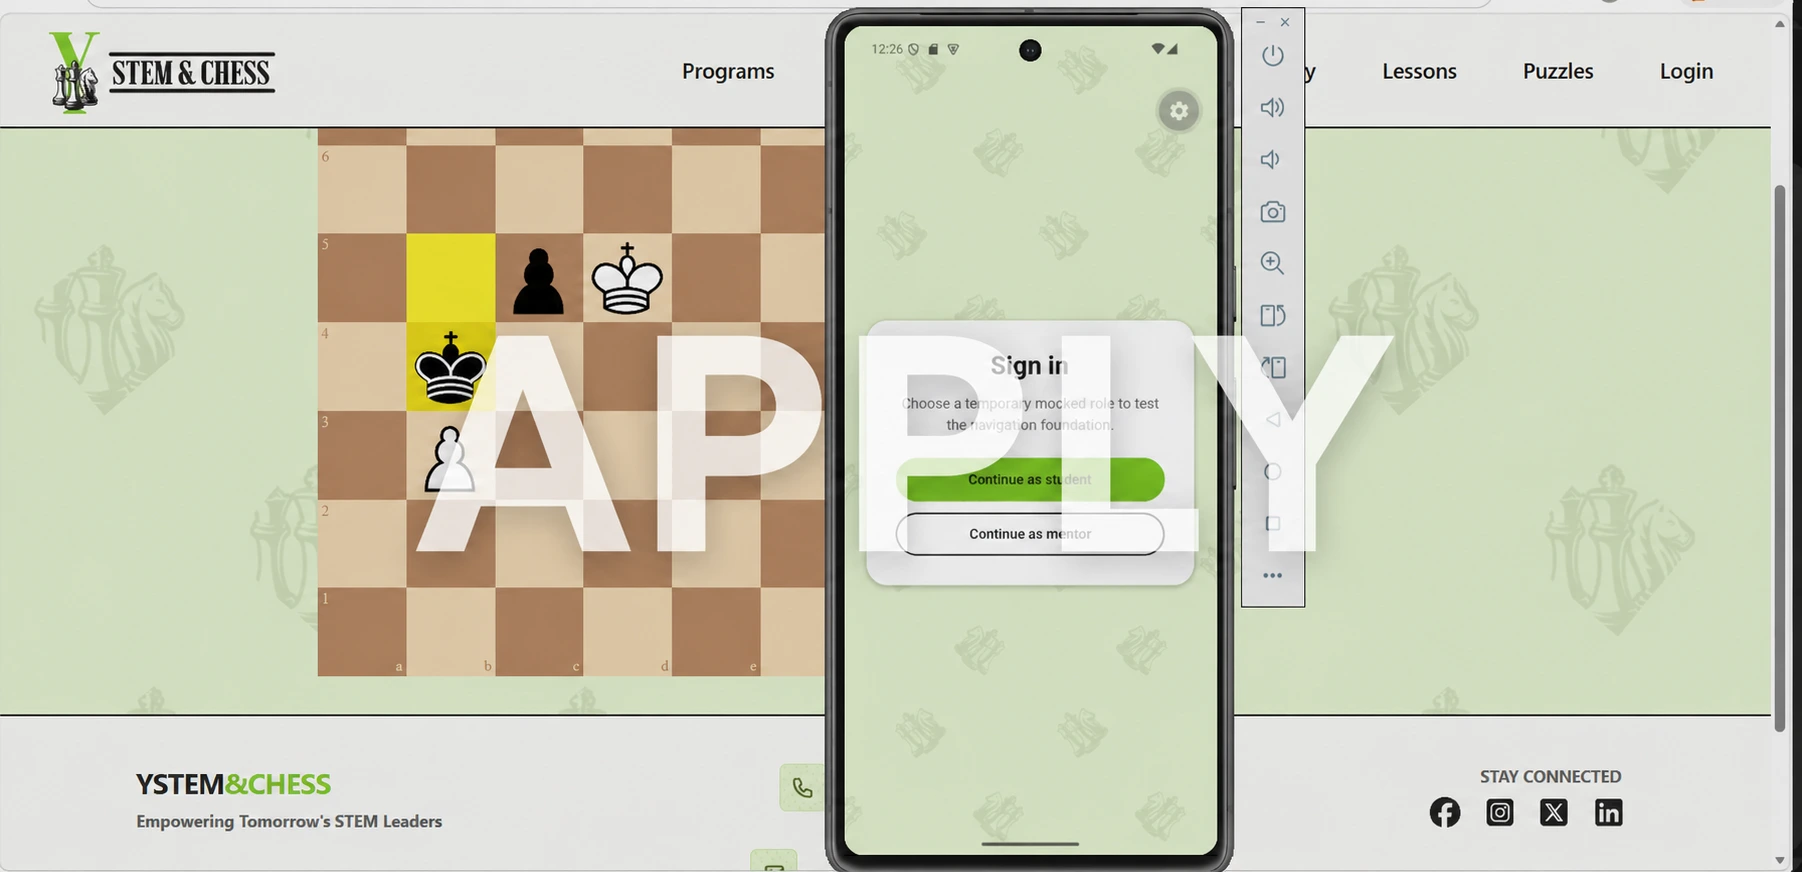
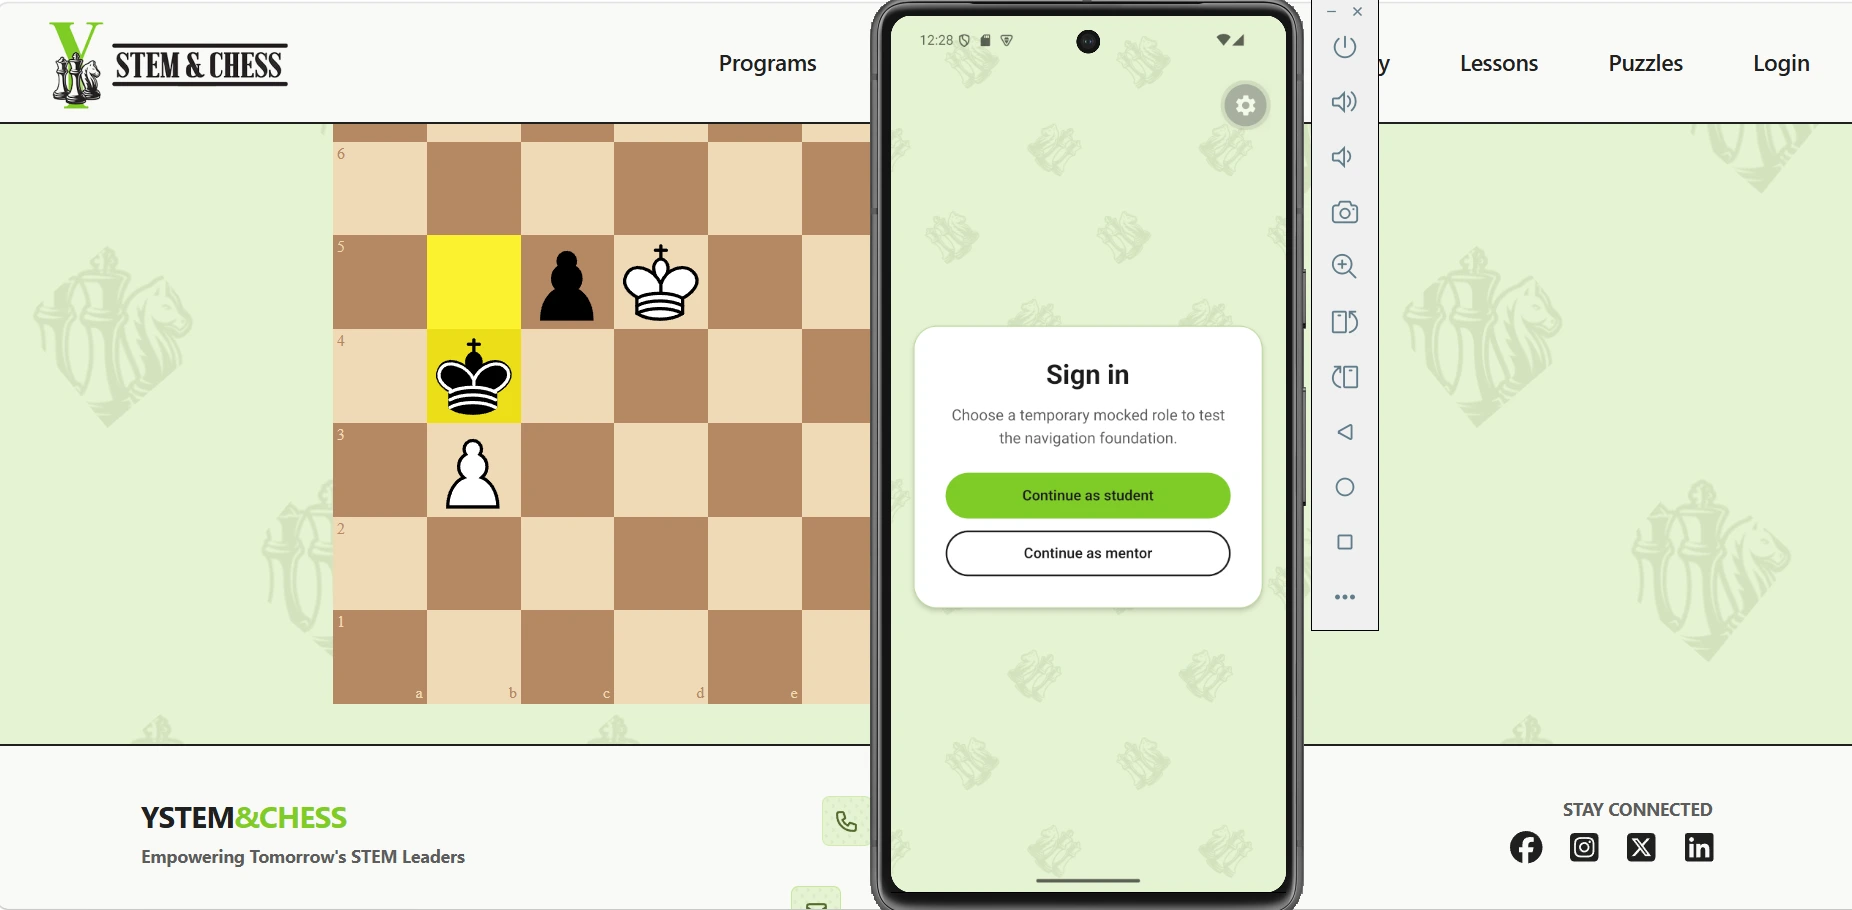
chore: Add git + github meeting and change update imgs

diff --git a/src/data/eventsData.ts b/src/data/eventsData.ts
@@ -1,5 +1,7 @@
 // webp for better optimization
 // 2026 event flyers
+import gitGithubWorkshop2026 from "../assets/eventFlyers/GitGitHubWorkshop.webp";
+import firstGenMeeting2026 from "../assets/eventFlyers/firstGenMeeting2026.webp";
 import broncoHacks2026 from "../assets/eventFlyers/BroncoHacks2026.webp";
 import speaker1Lucero2026 from "../assets/eventFlyers/s26speaker1.webp";
 import speaker2Tony2026 from "../assets/eventFlyers/s26speaker2.webp";
@@ -19,7 +21,6 @@ import kyleSpeaker2025 from "../assets/eventFlyers/MetaKyleGuestSpeaker2025.webp
 import dexterSpeaker2025 from "../assets/eventFlyers/MetaDexterGuestSpeaker2025.webp";
 import aaronSpeaker2025 from "../assets/eventFlyers/JPLAaronGuestSpeaker2025.webp";
 import firstMeeting2025 from "../assets/eventFlyers/FirstGenMeeting2025.webp";
-import firstGenMeeting2026 from "../assets/eventFlyers/firstGenMeeting2026.webp";
 
 export interface EventItem {
   id: string;
@@ -36,6 +37,18 @@ export interface EventItem {
 
 export const eventsData: EventItem[] = [
   // Add events with flyers here
+  {
+    id: "gitGithubMeeting2026",
+    title: "Introduction to Git + Github Workshop",
+    speaker: "Caleb Szeto (CSS)",
+    description:
+      "Join us this Thursday for an Intro to Git + GitHub Workshop with Caleb Szeto, our Hackathon Co-Chair! Whether you’re completely new to version control or just want to strengthen your Git skills, this workshop will cover the fundamentals you need to start collaborating on projects with confidence. Come learn the tools that developers use every day and get a foundation you can take into your next project!",
+    flyer: gitGithubWorkshop2026,
+    dateISO: "2026-09-03",
+    displayDate: "2026-09-03",
+    semester: "Fall 2026",
+    category: "Workshops",
+  },
   {
     id: "firstGenMeeting2026",
     title: "First General Meeting of Fall 2026",

diff --git a/src/data/projectsData.ts b/src/data/projectsData.ts
@@ -394,7 +394,7 @@ export const projectsData: Project[] = [
   {
     id: 5,
     title: "Y STEM and Chess Mobile App",
-    category: "Mobile App - APPLY",
+    category: "Mobile App",
     year: "2026-present",
     emoji: "📱",
     description:
@@ -404,11 +404,6 @@ export const projectsData: Project[] = [
     image: YSTEMProjImg,
     imageType: "image",
     links: [
-      {
-        label: "Apply",
-        href: "https://docs.google.com/forms/d/e/1FAIpQLSfr7Qg854HUdy2dvbJlxPPDe-x8cLKro-LPpyRcx33Q_Opf0Q/viewform?usp=dialog",
-        icon: "external-link",
-      },
       {
         label: "View Website",
         href: "https://ystemandchess.com/",
